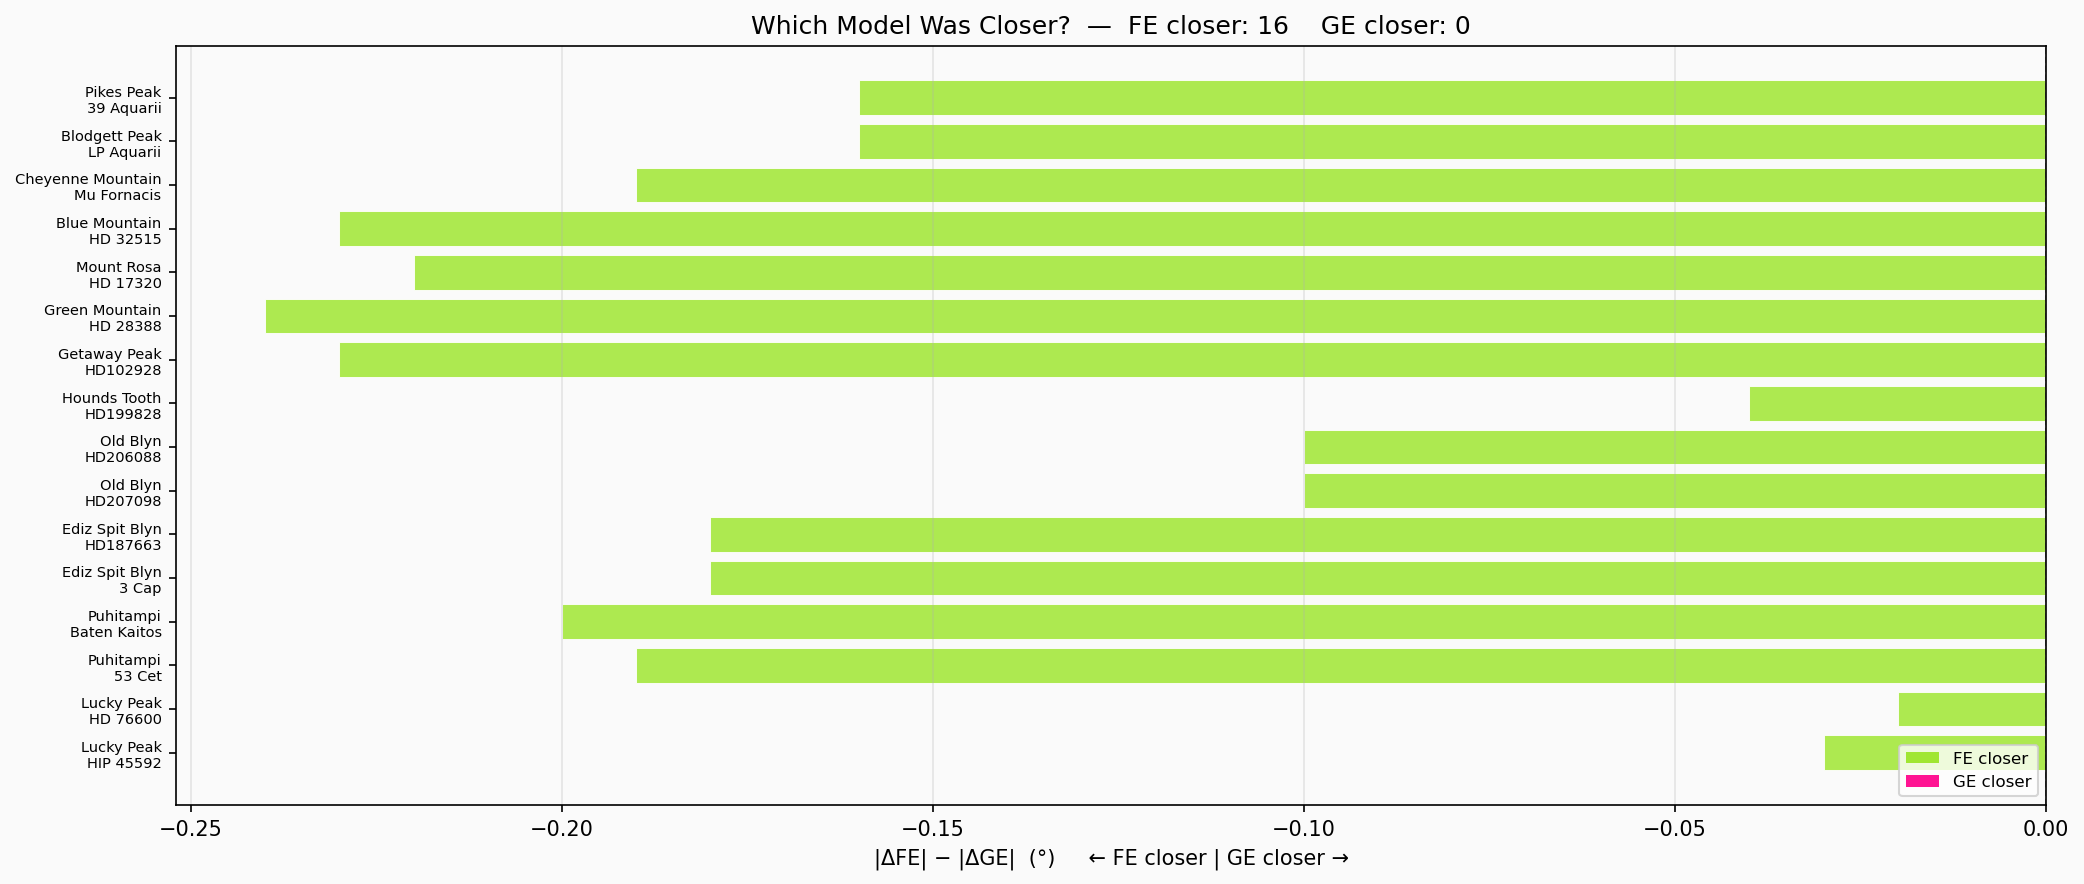
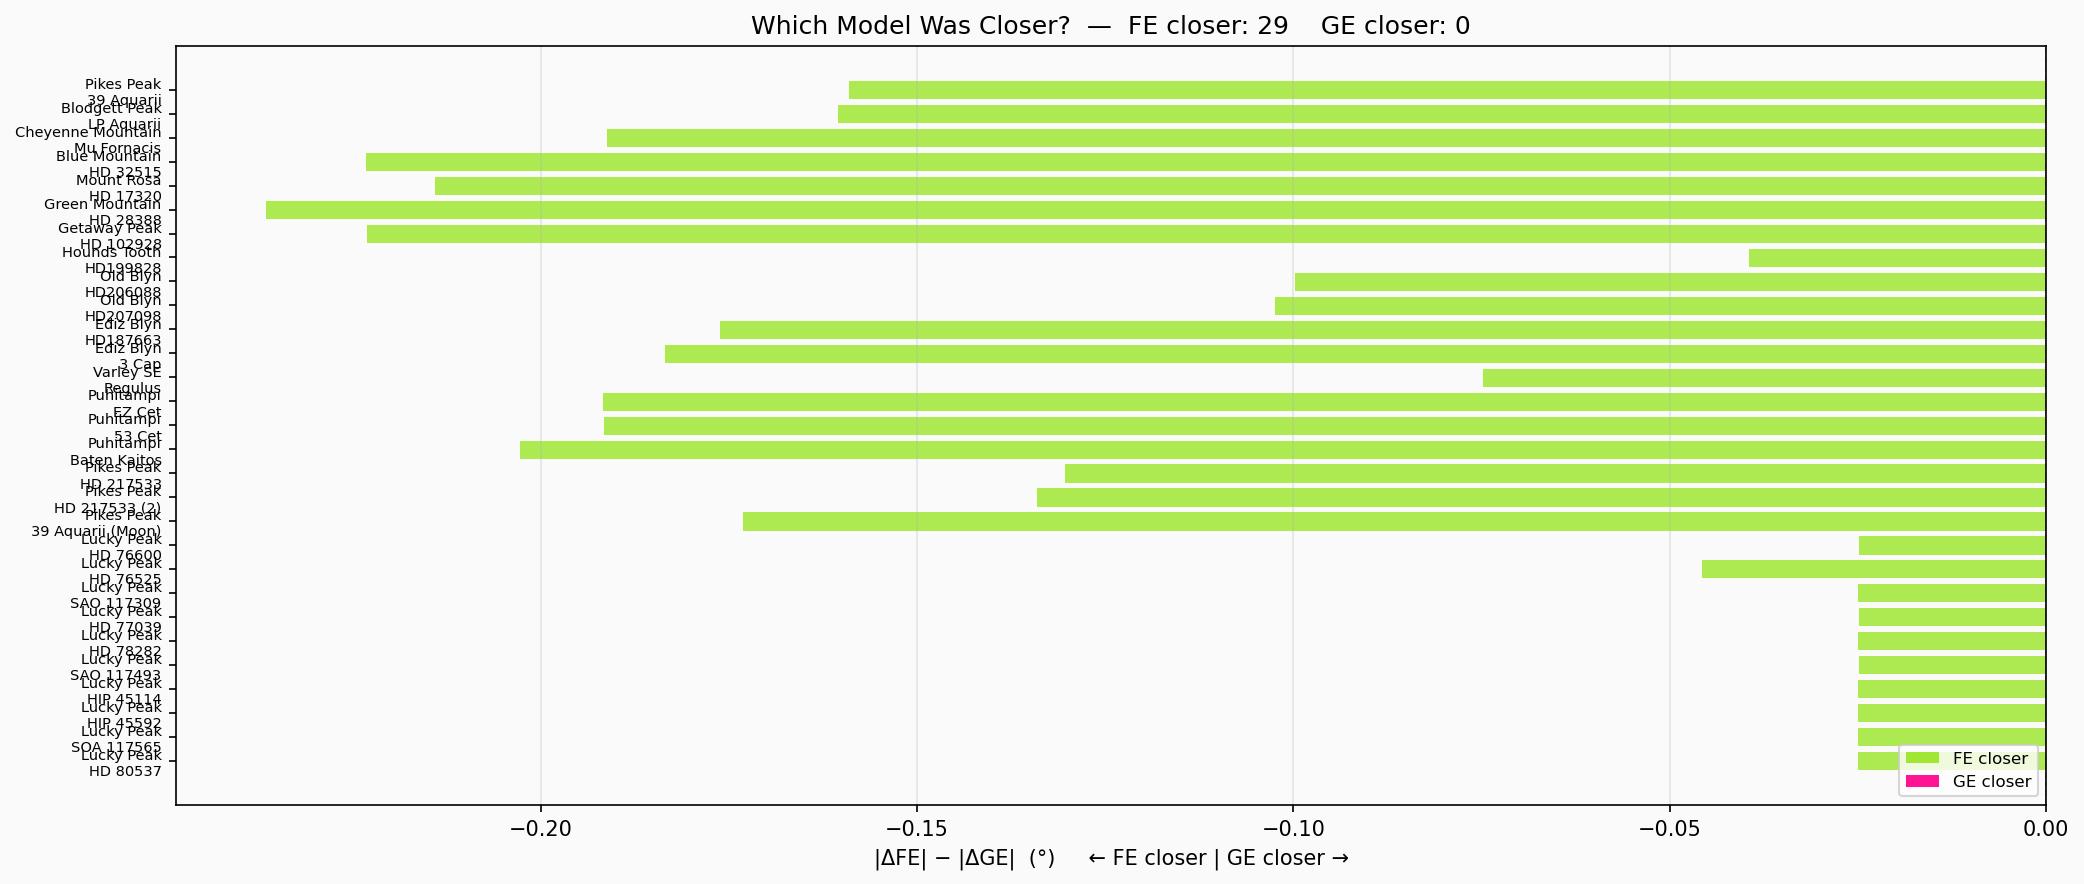
Full 32-observation analysis with per-star individual plots
- Add peak name normalization to derive_intersections.py (8 mappings)
- Regenerate intersections.csv: 32 obs, 12 columns, full precision
- Fix plot_new_look.py leading-space column refs, add .str.strip()
- Fix plot_individuals.py: one plot per observation (not per peak),
  shared y-axis from zero, correct measured values (pred - delta),
  clearer bar labels (FE/GE peak angle vs Star true position)
- Fix North Peak GE panel: y-axis extends below zero for negative values
- Rename Ediz Spit Blyn → Ediz Blyn throughout
- Update README filenames and peak names

29 included (<100km), 3 excluded (North Peak ~131km)
FE: μ=0.1163° σ=0.0860° | GE: μ=0.2446° σ=0.0910°
FE closer: 29/29, Wilcoxon p=0.000003

diff --git a/plot_individuals.py b/plot_individuals.py
@@ -55,17 +55,40 @@ def plot_peak(peak_df: pd.DataFrame, peak_name: str, fe_sigma: float, ge_sigma: 
     fe_delta = peak_df["ΔFE_intersection_dd"].values
     ge_delta = peak_df["ΔGE_intersection__dd"].values
 
-    # Measured = predicted + delta
-    fe_meas = fe_pred + fe_delta
-    ge_meas = ge_pred + ge_delta
+    # Actual star positions: Δ = predicted - measured, so measured = predicted - Δ
+    # FE: Star→Peak ♈ = FE_pred - ΔFE
+    # GE: Star→Obs ♈  = GE_pred - ΔGE
+    fe_meas = fe_pred - fe_delta
+    ge_meas = ge_pred - ge_delta
 
     # Two side-by-side subplots: FE panel (left), GE panel (right)
-    fig, (ax_fe, ax_ge) = plt.subplots(1, 2, figsize=(12, 6), facecolor="#fafafa")
+    fig_width = max(12, n * 2.5)
+    fig, (ax_fe, ax_ge) = plt.subplots(1, 2, figsize=(fig_width, 6), facecolor="#fafafa")
     fig.suptitle(peak_name, fontsize=14, fontweight="bold", y=0.98)
 
-    for ax, pred, meas, delta, sigma, color, color_meas, model_label in [
-        (ax_fe, fe_pred, fe_meas, fe_delta, fe_sigma, FE_COLOR, FE_COLOR_MEAS, "Flat Earth"),
-        (ax_ge, ge_pred, ge_meas, ge_delta, ge_sigma, GE_COLOR, GE_COLOR_MEAS, "Globe Earth"),
+    # Compute shared y-axis: always includes 0, same range for both panels
+    fe_sigma_2 = 2.0 * fe_sigma
+    ge_sigma_2 = 2.0 * ge_sigma
+    all_highs = np.concatenate([
+        fe_pred, fe_meas + fe_sigma_2,
+        ge_pred, ge_meas + ge_sigma_2,
+    ])
+    all_lows = np.concatenate([
+        fe_pred, fe_meas - fe_sigma_2,
+        ge_pred, ge_meas - ge_sigma_2,
+    ])
+    data_top = all_highs.max()
+    data_bottom = min(0, all_lows.min())
+    data_span = max(data_top - data_bottom, 0.3)
+    y_lo = data_bottom - data_span * 0.05 if data_bottom < 0 else 0
+    y_hi = data_top + data_span * 0.70
+    text_offset = data_span * 0.04
+
+    for ax, pred, meas, delta, sigma, color, color_meas, model_label, pred_label, meas_label in [
+        (ax_fe, fe_pred, fe_meas, fe_delta, fe_sigma, FE_COLOR, FE_COLOR_MEAS,
+         "Flat Earth", "FE peak angle", "Star\u2192Peak \u2648\ufe0e"),
+        (ax_ge, ge_pred, ge_meas, ge_delta, ge_sigma, GE_COLOR, GE_COLOR_MEAS,
+         "Globe Earth", "GE peak angle", "Star\u2192Obs \u2648\ufe0e"),
     ]:
         ax.set_facecolor("#fafafa")
         x = np.arange(n)
@@ -74,10 +97,10 @@ def plot_peak(peak_df: pd.DataFrame, peak_name: str, fe_sigma: float, ge_sigma: 
 
         # Predicted bar (no error bar)
         ax.bar(x - width / 2, pred, width, color=color, alpha=0.8,
-               label=f"{model_label} predicted")
-        # Measured bar with 2σ error bars (darker variant)
+               label=pred_label)
+        # Star true position bar with 2σ error bars (darker variant)
         ax.bar(x + width / 2, meas, width, color=color_meas, alpha=0.8,
-               label=f"{model_label} measured", yerr=sigma_2, capsize=5,
+               label=meas_label, yerr=sigma_2, capsize=5,
                error_kw={"lw": 1.2, "capthick": 1.2})
 
         # Red reference line at predicted value extending to measured bar
@@ -87,16 +110,7 @@ def plot_peak(peak_df: pd.DataFrame, peak_name: str, fe_sigma: float, ge_sigma: 
                       colors=REF_COLOR, linewidths=1.8, linestyles="--",
                       zorder=6, label="predicted ref" if i == 0 else "")
 
-        # Compute y-axis limits (error bars are 2σ on measured)
-        all_vals = np.concatenate([pred, meas + sigma_2, meas - sigma_2])
-        data_top = all_vals.max()
-        data_bottom = all_vals.min()
-        data_span = max(data_top - data_bottom, 0.3)
-        y_lo = data_bottom - data_span * 0.15
-        y_hi = data_top + data_span * 0.70
-        ax.set_ylim(max(0, y_lo), y_hi)
-
-        text_offset = data_span * 0.04
+        ax.set_ylim(y_lo, y_hi)
 
         # Annotate delta, ± meters, and pass/fail above the measured bar
         for i in range(n):
@@ -163,17 +177,21 @@ def main():
 
     OUTPUT_DIR.mkdir(parents=True, exist_ok=True)
 
-    # Plot all peaks (including excluded ones)
-    peaks = df.groupby("Peak", sort=False)
-    for peak_name, peak_df in peaks:
-        fig = plot_peak(peak_df, peak_name, fe_sigma, ge_sigma)
-        fname = f"{safe_filename(peak_name)}.png"
+    # Plot each observation individually (one star per chart)
+    count = 0
+    for idx, row in df.iterrows():
+        obs_df = df.loc[[idx]]
+        peak_name = row["Peak"]
+        star_name = row["Star"]
+        title = f"{peak_name} — {star_name}"
+        fig = plot_peak(obs_df, title, fe_sigma, ge_sigma)
+        fname = f"{safe_filename(peak_name)}_{safe_filename(star_name)}.png"
         fig.savefig(OUTPUT_DIR / fname, dpi=DPI, bbox_inches="tight")
         plt.close(fig)
-        stars = ", ".join(peak_df["Star"].values)
-        print(f"  {fname}  ({stars})")
+        print(f"  {fname}")
+        count += 1
 
-    print(f"\nSaved {len(peaks)} plots to: {OUTPUT_DIR.resolve()}")
+    print(f"\nSaved {count} plots to: {OUTPUT_DIR.resolve()}")
 
 
 if __name__ == "__main__":

diff --git a/plot_new_look.py b/plot_new_look.py
@@ -12,6 +12,7 @@ OUT.mkdir(parents=True, exist_ok=True)
 R_EARTH = 6_371_000
 
 df = pd.read_csv(CSV_PATH)
+df.columns = df.columns.str.strip()
 df['dist_m'] = df['Distance (m)'].astype(str).str.replace(',', '').astype(float)
 df['dist_km'] = df['dist_m'] / 1000
 
@@ -23,8 +24,8 @@ df['star_true'] = df['θStar,Obs,True'].astype(float)
 df['refr_deg'] = df['star_apparent'] - df['star_true']
 df['refr_arcmin'] = df['refr_deg'] * 60
 
-df['fe_resid'] = df[' ΔFE_intersection_dd'].astype(float)
-df['ge_resid'] = df[' ΔGE_intersection__dd'].astype(float)
+df['fe_resid'] = df['ΔFE_intersection_dd'].astype(float)
+df['ge_resid'] = df['ΔGE_intersection__dd'].astype(float)
 df['drop'] = df['GE_terrestrial_drop_dd'].astype(float)
 
 df['label'] = df['Peak'] + '\n' + df['Star']
@@ -217,7 +218,7 @@ ax.text(25, 8, 'Refraction < γ/2', fontsize=11, color=COLOR_GAMMA, alpha=0.7,
 
 ax.set_xlabel('Half Central Angle γ/2 (arcmin)', fontsize=13)
 ax.set_ylabel('Measured Astronomical Refraction (arcmin)', fontsize=13)
-ax.set_title('All 18 Observations: Refraction vs Half Central Angle', fontsize=16, pad=15)
+ax.set_title(f'All {len(df)} Observations: Refraction vs Half Central Angle', fontsize=16, pad=15)
 ax.legend(fontsize=11, loc='upper left')
 ax.grid(True, color='#333333', alpha=0.5)
 ax.set_xlim(0, max_val)

diff --git a/derive_intersections.py b/derive_intersections.py
@@ -20,6 +20,18 @@ from pathlib import Path
 DATA_DIR = Path(__file__).resolve().parent / "data"
 R_EARTH_M = 6_371_000
 
+# Normalize abbreviated peak names from data_table.csv to canonical names
+PEAK_NAME_MAP = {
+    "Cheyenne Mtn": "Cheyenne Mountain",
+    "Blue Mtn": "Blue Mountain",
+    "Green Mtn": "Green Mountain",
+    "Getaway Mtn": "Getaway Peak",
+    "Old-Blyn Mtn": "Old Blyn",
+    "Ediz-Blyn Mtn": "Ediz Blyn",
+    "Puhitempi Kuaikatete": "Puhitampi",
+    "Varley SE2 Squamish": "Varley SE",
+}
+
 
 def main():
     dt = pd.read_csv(DATA_DIR / "data_table.csv")
@@ -65,6 +77,9 @@ def main():
         "Distance (m)": distance.round(4),
         "θStar,Obs,True": star_obs_aries,
     })
+
+    # Normalize peak names
+    out["Peak"] = out["Peak"].replace(PEAK_NAME_MAP)
 
     out_path = DATA_DIR / "intersections.csv"
     out.to_csv(out_path, index=False)

diff --git a/README.md b/README.md
@@ -21,17 +21,17 @@ For each observation, the dataset contains the model's predicted angle, the meas
 |------|-------|----------|--------|
 | Pikes Peak | 39 Aquarii, HD 217533, HD 217533 (2), 39 Aquarii (Moon) | Colorado | Included |
 | Blodgett Peak | LP Aquarii | Colorado | Included |
-| Cheyenne Mtn | Mu Fornacis | Colorado | Included |
-| Blue Mtn | HD 32515 | Colorado | Included |
+| Cheyenne Mountain | Mu Fornacis | Colorado | Included |
+| Blue Mountain | HD 32515 | Colorado | Included |
 | Mount Rosa | HD 17320 | Colorado | Included |
-| Green Mtn | HD 28388 | Colorado | Included |
+| Green Mountain | HD 28388 | Colorado | Included |
 | North Peak | HD55892 (I Puppis), HD56455 (PR Puppis), HD56813 | Colorado | Excluded (~131 km) |
-| Getaway Mtn | HD 102928 | Idaho | Included |
+| Getaway Peak | HD 102928 | Idaho | Included |
 | Hounds Tooth | HD199828 | Utah | Included |
-| Old-Blyn Mtn | HD206088, HD207098 | Washington | Included |
-| Ediz-Blyn Mtn | HD187663, 3 Cap | Washington | Included |
-| Varley SE2 Squamish | Regulus | British Columbia | Included |
-| Puhitempi Kuaikatete | EZ Cet, 53 Cet, Baten Kaitos | Idaho | Included |
+| Old Blyn | HD206088, HD207098 | Washington | Included |
+| Ediz Blyn | HD187663, 3 Cap | Washington | Included |
+| Varley SE | Regulus | British Columbia | Included |
+| Puhitampi | EZ Cet, 53 Cet, Baten Kaitos | Idaho | Included |
 | Lucky Peak | HD 76600, HD 76525, SAO 117309, HD 77039, HD 78282, SAO 117493, HIP 45114, HIP 45592, SOA 117565, HD 80537 | Idaho | Included |
 
 ### Data Files
@@ -332,17 +332,17 @@ star-intersections/
     └── individuals/
         ├── pikes_peak.png
         ├── blodgett_peak.png
-        ├── cheyenne_mtn.png
-        ├── blue_mtn.png
+        ├── cheyenne_mountain.png
+        ├── blue_mountain.png
         ├── mount_rosa.png
-        ├── green_mtn.png
+        ├── green_mountain.png
         ├── north_peak.png
-        ├── getaway_mtn.png
+        ├── getaway_peak.png
         ├── hounds_tooth.png
-        ├── old-blyn_mtn.png
-        ├── ediz-blyn_mtn.png
-        ├── varley_se2_squamish.png
-        ├── puhitempi_kuaikatete.png
+        ├── old_blyn.png
+        ├── ediz_spit_blyn.png
+        ├── varley_se.png
+        ├── puhitampi.png
         └── lucky_peak.png
 ```
 
